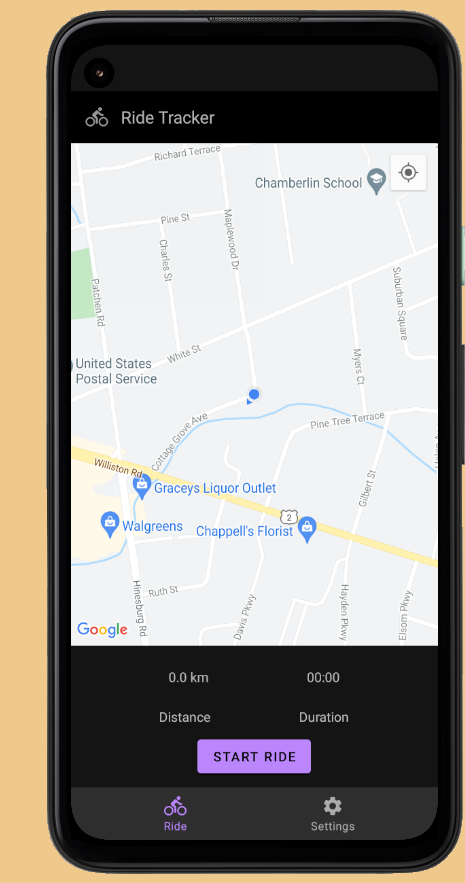
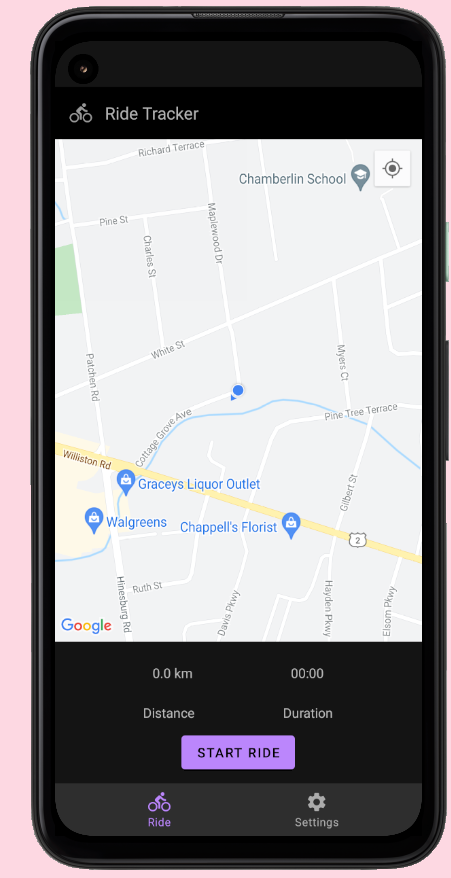
update color scheme

diff --git a/projects/android-app.html b/projects/android-app.html
@@ -48,9 +48,9 @@
             <div class="row color-container2">
                 <!-- Column 1 -->
                 <div class="col-xs-4 col-sm-7 col-md-6 col-lg-8 ms-md-4 mt-5 android-app-core-body">
-                    <h3 style="color: #3c8ccd;"class="mb-3">Android Moible App: Bike Ride Tracker</h3>
+                    <h3 style="color: #1997a4;"class="mb-3">Android Moible App: Bike Ride Tracker</h3>
                     <h4>Main Ideas:</h4>
-                    <ul class="lead">
+                    <ul class="lead android-app-main-ideas">
                         <li><span>Drive UI from a model:</span></li> <p>A ViewModel is used to store and update the data of Views in the app with data binding.</p>
                         <li><span>Asynchrounous programming:</span></li> <p>The timer is created using a courutine to allow for non-blocking code.</p>
                         <li><span>Separation of concerns:</span></li> <p>A foreground service class is implemented to handle all tracking related logic.</p>

diff --git a/index.html b/index.html
@@ -59,7 +59,7 @@
                     <h3>Project Spotlight</h3>
                     <ul class="project-ulist lead">
                         <li><a href="projects/android-app.html"><span>Android Mobile App:</span> Bike Ride Tracker</li></a>
-                        <li><a href="https://github.com/MateoRiofrio/MateoRiofrio.github.io"><span>Website Development:</span> This website!</li></a>
+                        <li><a href="https://github.com/MateoRiofrio/MateoRiofrio.github.io"><span> Website Development:</span> This website!</li></a>
                         <li><a href="projects/compiler.html"><span>Compiler Construction:</span> Language and compiler implementation using Python</li></a>
                         <li><a href="projects/cpp-graphics.html"><span>C++ Graphics:</span> Snake clone using GLUT and OpenCV</li></a>
                     </ul>

diff --git a/css/main.css b/css/main.css
@@ -1,12 +1,12 @@
 
 /* Background Containers */
 .color-container1 {
-    background: #f3d5a5;
+    background: #FCEDD9;
     
 }
 
 .color-container2 {
-    background: #efc88b;
+    background: #FDD8E2;
     
 }
 
@@ -51,6 +51,15 @@
 
 .project-ulist a {
     text-decoration: none;
+}
+
+.android-app-main-ideas li {
+    margin-top: 25px;
+    margin-bottom: 15px;
+}
+
+.android-app-main-ideas span {
+    color: black;
 }
 
 
